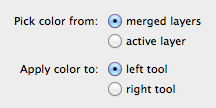
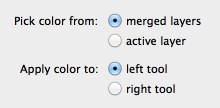
Retina-optimized Discover Pixen tutorial (3)

diff --git a/Resources/PixenIntro/properties.html b/Resources/PixenIntro/properties.html
@@ -7,7 +7,7 @@
 
 <body>
 	<h2>Tool Properties</h2>
-	<img class="left shadow" src="ToolProperties.png" alt="Tool Properties in Pixen" />
+	<img id="properties" class="left shadow" src="ToolProperties.png" width="220" height="108" alt="Tool Properties in Pixen" />
 	<p>Most tools have properties you can change to customize their behavior. You can open the <strong>Tool Properties</strong> panel by pressing Shift+&#8984;+T or double-clicking a tool.</p>
 	<p>Line width, fill style, and color tolerance are a few of the tool properties you'll find.</p>
 	<div class="clear"></div>

diff --git a/Resources/PixenIntro/style.css b/Resources/PixenIntro/style.css
@@ -75,4 +75,7 @@ a.button:hover {
 	img#patterns {
 		content: url("Patterns_2x.png");
 	}
+	img#properties {
+		content: url("ToolProperties_2x.png");
+	}
 }
